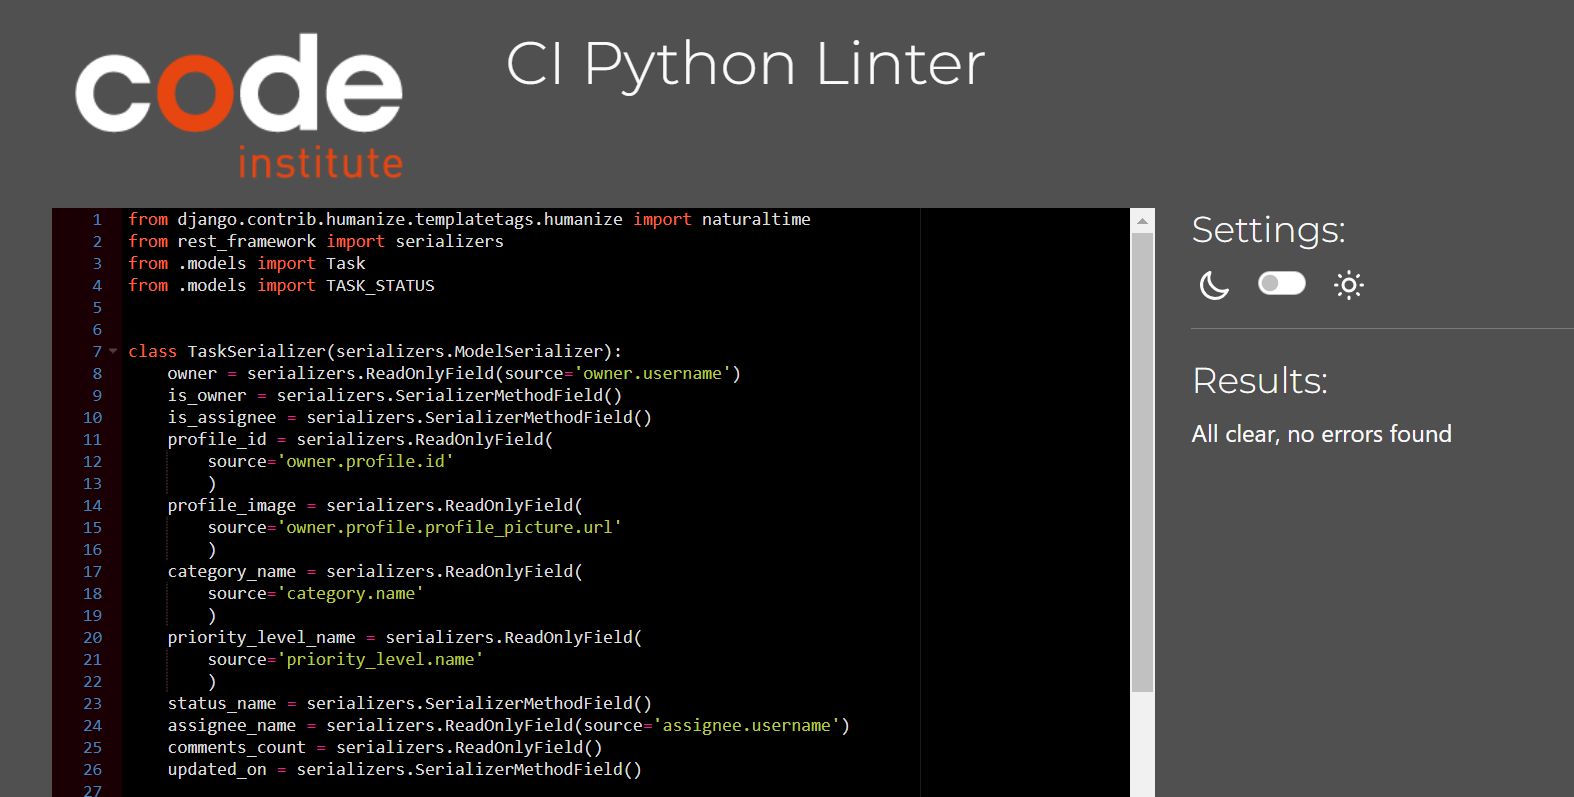
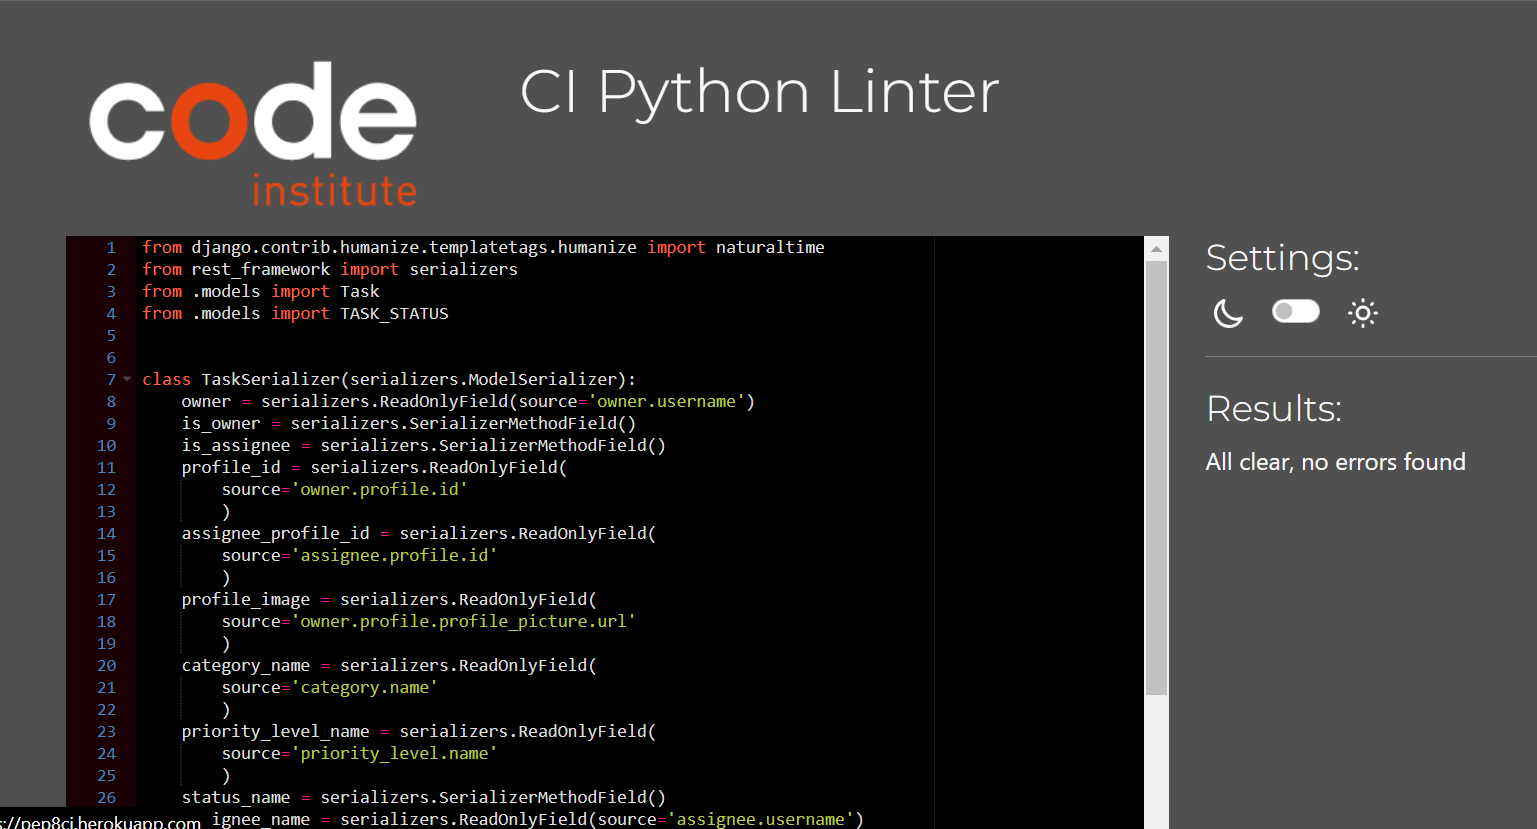
Update tasks serializers.py PEP8 screenshot

Changed region(s): [[0.0, 0.0301, 0.9681, 1.0], [0.3123, 0.0602, 0.6558, 0.1506]]

diff --git a/tasks/serializers.py b/tasks/serializers.py
@@ -11,6 +11,9 @@ class TaskSerializer(serializers.ModelSerializer):
     profile_id = serializers.ReadOnlyField(
         source='owner.profile.id'
         )
+    assignee_profile_id = serializers.ReadOnlyField(
+        source='assignee.profile.id'
+        )
     profile_image = serializers.ReadOnlyField(
         source='owner.profile.profile_picture.url'
         )
@@ -44,8 +47,8 @@ class TaskSerializer(serializers.ModelSerializer):
         model = Task
         fields = [
             'id', 'owner', 'is_owner', 'is_assignee', 'profile_id',
-            'profile_image', 'category', 'category_name', 'priority_level',
-            'priority_level_name', 'assignee', 'assignee_name', 'title',
-            'created_on', 'updated_on', 'status', 'status_name',
-            'task_detail', 'comments_count',
+            'assignee_profile_id', 'profile_image', 'category', 
+            'category_name', 'priority_level', 'priority_level_name', 
+            'assignee', 'assignee_name', 'title', 'created_on', 'updated_on', 
+            'status', 'status_name', 'task_detail', 'comments_count',
         ]
